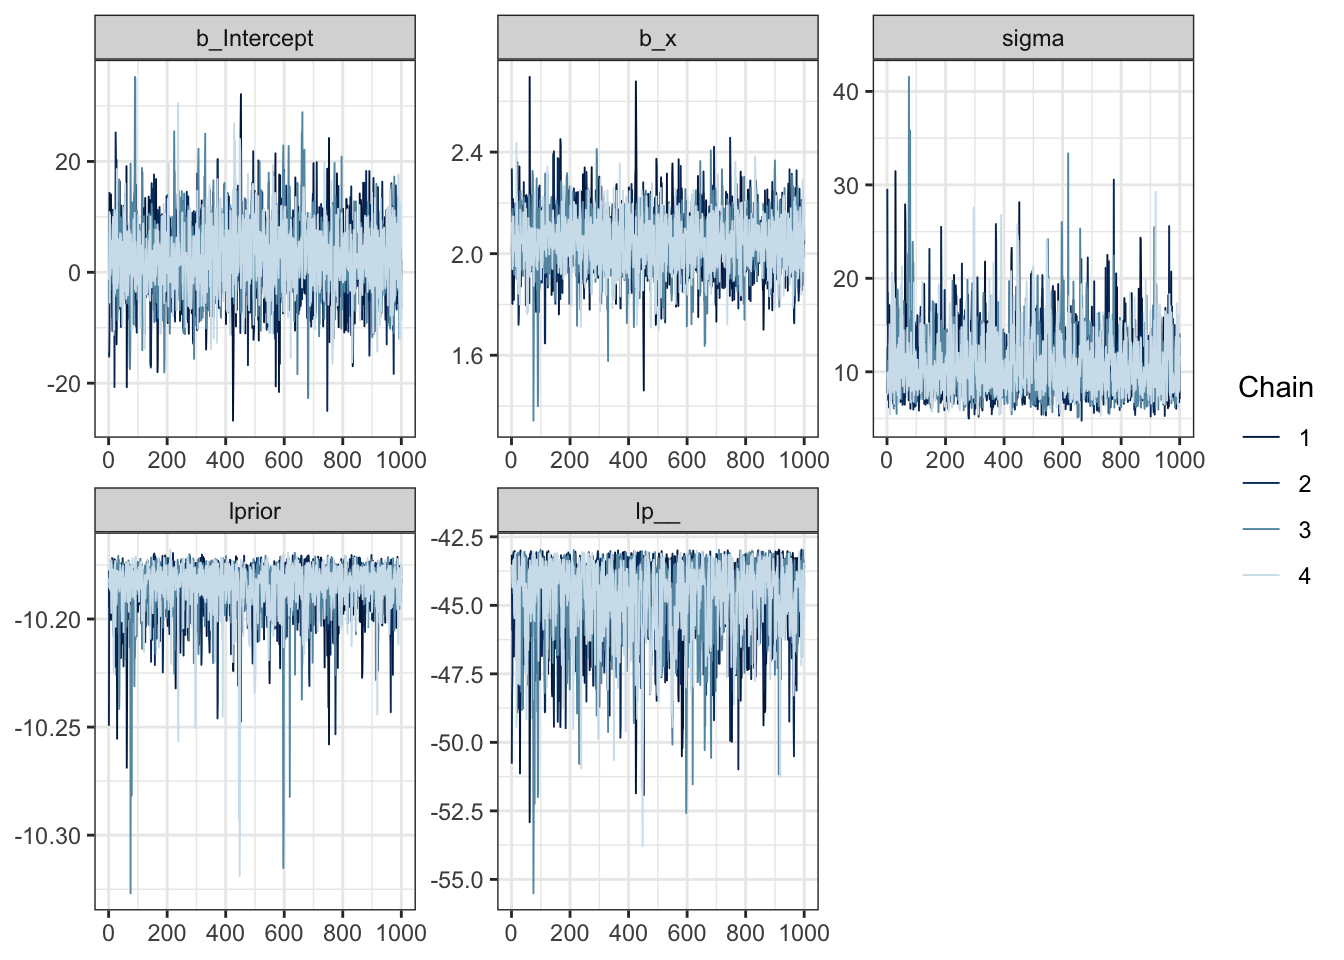
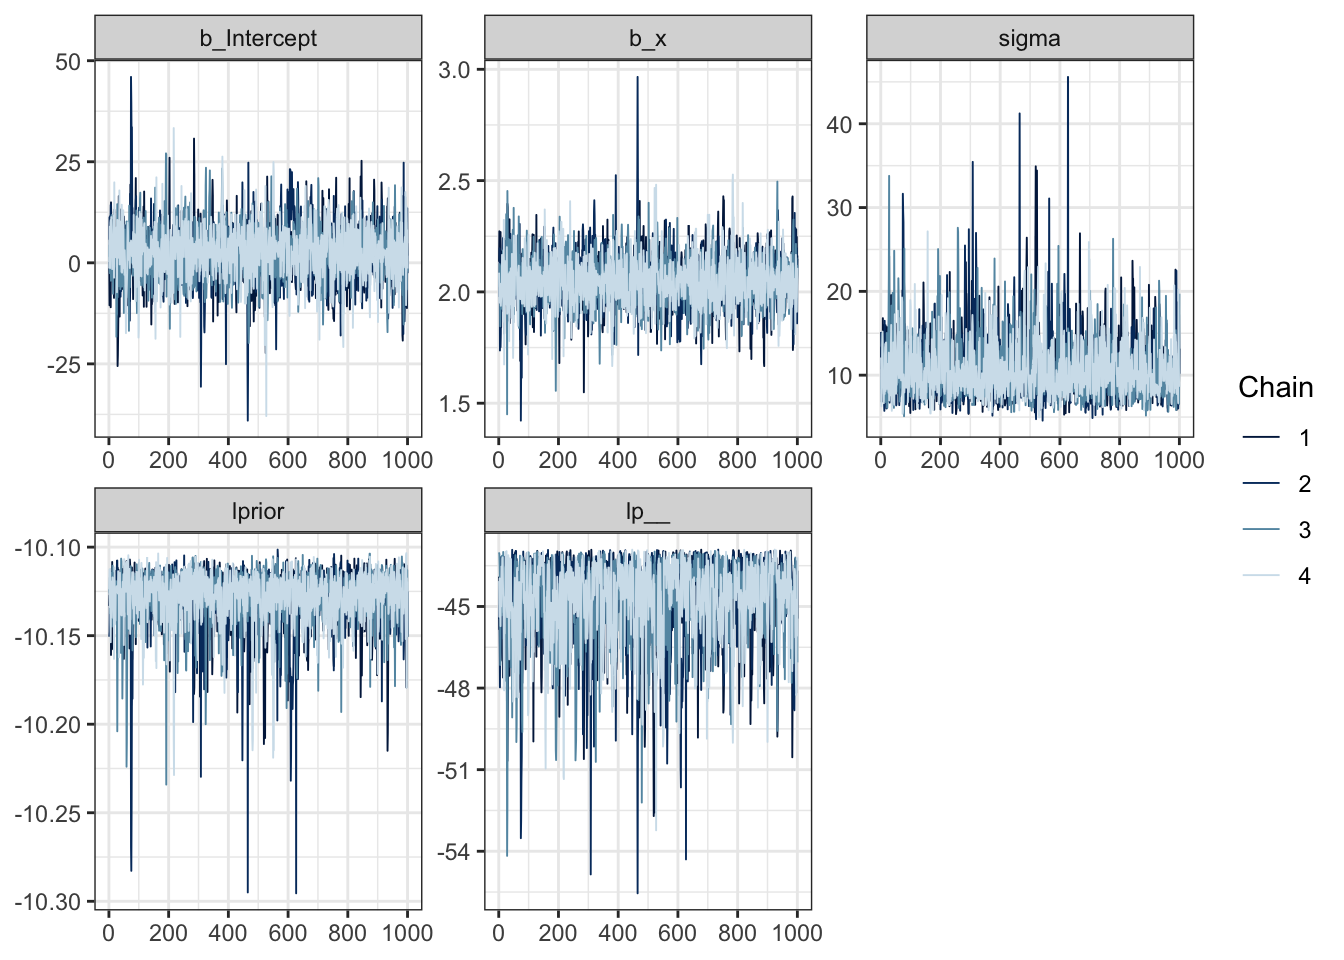
Minor edits

diff --git a/simplesim.html b/simplesim.html
@@ -146,7 +146,7 @@ code span.wa { color: #60a0b0; font-weight: bold; font-style: italic; } /* Warni
 </div>
 <div class="cell">
 <div class="sourceCode cell-code" id="cb2"><pre class="sourceCode r code-with-copy"><code class="sourceCode r"><span id="cb2-1"><a href="#cb2-1" aria-hidden="true" tabindex="-1"></a>n <span class="ot">=</span> <span class="dv">10</span></span>
-<span id="cb2-2"><a href="#cb2-2" aria-hidden="true" tabindex="-1"></a>x <span class="ot">=</span> <span class="fu">runif</span>(n, <span class="at">min =</span> <span class="dv">0</span>, <span class="at">max =</span> <span class="dv">100</span>)</span></code><button title="Copy to Clipboard" class="code-copy-button"><i class="bi"></i></button></pre></div>
+<span id="cb2-2"><a href="#cb2-2" aria-hidden="true" tabindex="-1"></a>x <span class="ot">=</span> <span class="fu">sort</span>(<span class="fu">runif</span>(n, <span class="at">min =</span> <span class="dv">0</span>, <span class="at">max =</span> <span class="dv">100</span>))</span></code><button title="Copy to Clipboard" class="code-copy-button"><i class="bi"></i></button></pre></div>
 </div>
 <div class="cell">
 <div class="sourceCode cell-code" id="cb3"><pre class="sourceCode r code-with-copy"><code class="sourceCode r"><span id="cb3-1"><a href="#cb3-1" aria-hidden="true" tabindex="-1"></a>true_alpha <span class="ot">=</span> <span class="dv">5</span></span>
@@ -160,7 +160,7 @@ code span.wa { color: #60a0b0; font-weight: bold; font-style: italic; } /* Warni
 
 <div data-pagedtable="false">
   <script data-pagedtable-source="" type="application/json">
-{"columns":[{"label":["x"],"name":[1],"type":["dbl"],"align":["right"]},{"label":["y"],"name":[2],"type":["dbl"],"align":["right"]}],"data":[{"1":"83.368","2":"171.86"},{"1":"38.320","2":"81.44"},{"1":"93.304","2":"196.91"},{"1":"39.829","2":"73.38"},{"1":"62.555","2":"118.63"},{"1":"20.151","2":"49.89"},{"1":"92.407","2":"196.81"},{"1":"11.735","2":"16.02"},{"1":"46.700","2":"106.15"},{"1":"5.575","2":"24.80"}],"options":{"columns":{"min":{},"max":[10]},"rows":{"min":[10],"max":[10]},"pages":{}}}
+{"columns":[{"label":["x"],"name":[1],"type":["dbl"],"align":["right"]},{"label":["y"],"name":[2],"type":["dbl"],"align":["right"]}],"data":[{"1":"5.575","2":"16.27"},{"1":"11.735","2":"28.27"},{"1":"20.151","2":"50.60"},{"1":"38.320","2":"70.37"},{"1":"39.829","2":"73.18"},{"1":"46.700","2":"102.99"},{"1":"62.555","2":"137.10"},{"1":"83.368","2":"159.28"},{"1":"92.407","2":"197.57"},{"1":"93.304","2":"200.26"}],"options":{"columns":{"min":{},"max":[10]},"rows":{"min":[10],"max":[10]},"pages":{}}}
   </script>
 </div>
 </div>
@@ -180,7 +180,7 @@ code span.wa { color: #60a0b0; font-weight: bold; font-style: italic; } /* Warni
 
 <div data-pagedtable="false">
   <script data-pagedtable-source="" type="application/json">
-{"columns":[{"label":["term"],"name":[1],"type":["chr"],"align":["left"]},{"label":["estimate"],"name":[2],"type":["dbl"],"align":["right"]},{"label":["std.error"],"name":[3],"type":["dbl"],"align":["right"]},{"label":["statistic"],"name":[4],"type":["dbl"],"align":["right"]},{"label":["p.value"],"name":[5],"type":["dbl"],"align":["right"]},{"label":["conf.low"],"name":[6],"type":["dbl"],"align":["right"]},{"label":["conf.high"],"name":[7],"type":["dbl"],"align":["right"]}],"data":[{"1":"(Intercept)","2":"2.564","3":"5.28473","4":"0.4852","5":"0.64057020801","6":"-9.623","7":"14.751"},{"1":"x","2":"2.045","3":"0.09074","4":"22.5398","5":"0.00000001589","6":"1.836","7":"2.255"}],"options":{"columns":{"min":{},"max":[10]},"rows":{"min":[10],"max":[10]},"pages":{}}}
+{"columns":[{"label":["term"],"name":[1],"type":["chr"],"align":["left"]},{"label":["estimate"],"name":[2],"type":["dbl"],"align":["right"]},{"label":["std.error"],"name":[3],"type":["dbl"],"align":["right"]},{"label":["statistic"],"name":[4],"type":["dbl"],"align":["right"]},{"label":["p.value"],"name":[5],"type":["dbl"],"align":["right"]},{"label":["conf.low"],"name":[6],"type":["dbl"],"align":["right"]},{"label":["conf.high"],"name":[7],"type":["dbl"],"align":["right"]}],"data":[{"1":"(Intercept)","2":"2.456","3":"5.2766","4":"0.4655","5":"0.65395769682","6":"-9.711","7":"14.624"},{"1":"x","2":"2.047","3":"0.0906","4":"22.5984","5":"0.00000001557","6":"1.839","7":"2.256"}],"options":{"columns":{"min":{},"max":[10]},"rows":{"min":[10],"max":[10]},"pages":{}}}
   </script>
 </div>
 </div>
@@ -191,7 +191,7 @@ code span.wa { color: #60a0b0; font-weight: bold; font-style: italic; } /* Warni
 
 <div data-pagedtable="false">
   <script data-pagedtable-source="" type="application/json">
-{"columns":[{"label":["rowid"],"name":[1],"type":["int"],"align":["right"]},{"label":["type"],"name":[2],"type":["chr"],"align":["left"]},{"label":["estimate"],"name":[3],"type":["dbl"],"align":["right"]},{"label":["std.error"],"name":[4],"type":["dbl"],"align":["right"]},{"label":["statistic"],"name":[5],"type":["dbl"],"align":["right"]},{"label":["p.value"],"name":[6],"type":["dbl"],"align":["right"]},{"label":["conf.low"],"name":[7],"type":["dbl"],"align":["right"]},{"label":["conf.high"],"name":[8],"type":["dbl"],"align":["right"]},{"label":["x"],"name":[9],"type":["dbl"],"align":["right"]},{"label":["y"],"name":[10],"type":["dbl"],"align":["right"]}],"data":[{"1":"1","2":"response","3":"173.08","4":"4.165","5":"41.560","6":"0.000000000000000000000000000000000000000000000000000000000000000000000000000000000000000000000000000000000000000000000000000000000000000000000000000000000000000000000000000000000000000000000000000000000000000000000000000000000000000000000000000000000000000000000000000000","7":"164.914","8":"181.24","9":"83.368","10":"171.86"},{"1":"2","2":"response","3":"80.94","4":"2.975","5":"27.209","6":"0.000000000000000000000000000000000000000000000000000000000000000000000000000000000000000000000000000000000000000000000000000000000000000000000000000000000000000000505325747642740027568376639253466487285663691635092461180471610891692727098270332833187939554715011212839612","7":"75.109","8":"86.77","9":"38.320","10":"81.44"},{"1":"3","2":"response","3":"193.40","4":"4.870","5":"39.714","6":"0.000000000000000000000000000000000000000000000000000000000000000000000000000000000000000000000000000000000000000000000000000000000000000000000000000000000000000000000000000000000000000000000000000000000000000000000000000000000000000000000000000000000000000000000000000000","7":"183.852","8":"202.94","9":"93.304","10":"196.91"},{"1":"4","2":"response","3":"84.02","4":"2.931","5":"28.665","6":"0.000000000000000000000000000000000000000000000000000000000000000000000000000000000000000000000000000000000000000000000000000000000000000000000000000000000000000000000000000000000001056891592485266460805338212958973814502802802846665023040461816351250694271784882800892028","7":"78.280","8":"89.77","9":"39.829","10":"73.38"},{"1":"5","2":"response","3":"130.51","4":"3.044","5":"42.875","6":"0.000000000000000000000000000000000000000000000000000000000000000000000000000000000000000000000000000000000000000000000000000000000000000000000000000000000000000000000000000000000000000000000000000000000000000000000000000000000000000000000000000000000000000000000000000000","7":"124.541","8":"136.47","9":"62.555","10":"118.63"},{"1":"6","2":"response","3":"43.78","4":"3.858","5":"11.348","6":"0.000000000000000000000000000007549049031609619336866795405027061754198950152603986157154516931659156283939511242198072693554422585293650627136230468750000000000000000000000000000000000000000000000000000000000000000000000000000000000000000000000000000000000000000000000000","7":"36.217","8":"51.34","9":"20.151","10":"49.89"},{"1":"7","2":"response","3":"191.56","4":"4.803","5":"39.881","6":"0.000000000000000000000000000000000000000000000000000000000000000000000000000000000000000000000000000000000000000000000000000000000000000000000000000000000000000000000000000000000000000000000000000000000000000000000000000000000000000000000000000000000000000000000000000000","7":"182.148","8":"200.98","9":"92.407","10":"196.81"},{"1":"8","2":"response","3":"26.57","4":"4.418","5":"6.013","6":"0.000000001816974681612260777580960289872506058239665094333759043365716934204101562500000000000000000000000000000000000000000000000000000000000000000000000000000000000000000000000000000000000000000000000000000000000000000000000000000000000000000000000000000000000000000000","7":"17.907","8":"35.22","9":"11.735","10":"16.02"},{"1":"9","2":"response","3":"98.08","4":"2.811","5":"34.897","6":"0.000000000000000000000000000000000000000000000000000000000000000000000000000000000000000000000000000000000000000000000000000000000000000000000000000000000000000000000000000000000000000000000000000000000000000000000000000000000000000000000000000000000000000000000000008306","7":"92.569","8":"103.59","9":"46.700","10":"106.15"},{"1":"10","2":"response","3":"13.97","4":"4.863","5":"2.872","6":"0.004082046082120940888593452200439060106873512268066406250000000000000000000000000000000000000000000000000000000000000000000000000000000000000000000000000000000000000000000000000000000000000000000000000000000000000000000000000000000000000000000000000000000000000000000000","7":"4.434","8":"23.50","9":"5.575","10":"24.80"}],"options":{"columns":{"min":{},"max":[10]},"rows":{"min":[10],"max":[10]},"pages":{}}}
+{"columns":[{"label":["rowid"],"name":[1],"type":["int"],"align":["right"]},{"label":["type"],"name":[2],"type":["chr"],"align":["left"]},{"label":["estimate"],"name":[3],"type":["dbl"],"align":["right"]},{"label":["std.error"],"name":[4],"type":["dbl"],"align":["right"]},{"label":["statistic"],"name":[5],"type":["dbl"],"align":["right"]},{"label":["p.value"],"name":[6],"type":["dbl"],"align":["right"]},{"label":["conf.low"],"name":[7],"type":["dbl"],"align":["right"]},{"label":["conf.high"],"name":[8],"type":["dbl"],"align":["right"]},{"label":["x"],"name":[9],"type":["dbl"],"align":["right"]},{"label":["y"],"name":[10],"type":["dbl"],"align":["right"]}],"data":[{"1":"1","2":"response","3":"13.87","4":"4.856","5":"2.857","6":"0.004283058880382936868536081220781852607615292072296142578125000000000000000000000000000000000000000000000000000000000000000000000000000000000000000000000000000000000000000000000000000000000000000000000000000000000000000000000000000000000000000000000000000000000000000000","7":"4.353","8":"23.39","9":"5.575","10":"16.27"},{"1":"2","2":"response","3":"26.48","4":"4.411","5":"6.004","6":"0.000000001924741358821671677031650996643648288131345225338009186089038848876953125000000000000000000000000000000000000000000000000000000000000000000000000000000000000000000000000000000000000000000000000000000000000000000000000000000000000000000000000000000000000000000000","7":"17.838","8":"35.13","9":"11.735","10":"28.27"},{"1":"3","2":"response","3":"43.71","4":"3.852","5":"11.349","6":"0.000000000000000000000000000007471449165740679744340185482681218481717841962517719411973056526086421133542444725228470758793264394626021385192871093750000000000000000000000000000000000000000000000000000000000000000000000000000000000000000000000000000000000000000000000000","7":"36.165","8":"51.26","9":"20.151","10":"50.60"},{"1":"4","2":"response","3":"80.92","4":"2.970","5":"27.243","6":"0.000000000000000000000000000000000000000000000000000000000000000000000000000000000000000000000000000000000000000000000000000000000000000000000000000000000000000000201851061220763596469112058302809903958644521484170661368615918545565970758142535243769786694691043074178226","7":"75.094","8":"86.74","9":"38.320","10":"70.37"},{"1":"5","2":"response","3":"84.00","4":"2.927","5":"28.701","6":"0.000000000000000000000000000000000000000000000000000000000000000000000000000000000000000000000000000000000000000000000000000000000000000000000000000000000000000000000000000000000000366326022847544548116207557171403948494404757455290285082704109645925691316451346369666651","7":"78.268","8":"89.74","9":"39.829","10":"73.18"},{"1":"6","2":"response","3":"98.07","4":"2.806","5":"34.948","6":"0.000000000000000000000000000000000000000000000000000000000000000000000000000000000000000000000000000000000000000000000000000000000000000000000000000000000000000000000000000000000000000000000000000000000000000000000000000000000000000000000000000000000000000000000000001374","7":"92.572","8":"103.57","9":"46.700","10":"102.99"},{"1":"7","2":"response","3":"130.54","4":"3.039","5":"42.950","6":"0.000000000000000000000000000000000000000000000000000000000000000000000000000000000000000000000000000000000000000000000000000000000000000000000000000000000000000000000000000000000000000000000000000000000000000000000000000000000000000000000000000000000000000000000000000000","7":"124.579","8":"136.49","9":"62.555","10":"137.10"},{"1":"8","2":"response","3":"173.15","4":"4.158","5":"41.641","6":"0.000000000000000000000000000000000000000000000000000000000000000000000000000000000000000000000000000000000000000000000000000000000000000000000000000000000000000000000000000000000000000000000000000000000000000000000000000000000000000000000000000000000000000000000000000000","7":"165.000","8":"181.30","9":"83.368","10":"159.28"},{"1":"9","2":"response","3":"191.66","4":"4.796","5":"39.961","6":"0.000000000000000000000000000000000000000000000000000000000000000000000000000000000000000000000000000000000000000000000000000000000000000000000000000000000000000000000000000000000000000000000000000000000000000000000000000000000000000000000000000000000000000000000000000000","7":"182.256","8":"201.06","9":"92.407","10":"197.57"},{"1":"10","2":"response","3":"193.49","4":"4.862","5":"39.794","6":"0.000000000000000000000000000000000000000000000000000000000000000000000000000000000000000000000000000000000000000000000000000000000000000000000000000000000000000000000000000000000000000000000000000000000000000000000000000000000000000000000000000000000000000000000000000000","7":"183.963","8":"203.02","9":"93.304","10":"200.26"}],"options":{"columns":{"min":{},"max":[10]},"rows":{"min":[10],"max":[10]},"pages":{}}}
   </script>
 </div>
 </div>
@@ -211,7 +211,7 @@ code span.wa { color: #60a0b0; font-weight: bold; font-style: italic; } /* Warni
 
 <div data-pagedtable="false">
   <script data-pagedtable-source="" type="application/json">
-{"columns":[{"label":["effect"],"name":[1],"type":["chr"],"align":["left"]},{"label":["component"],"name":[2],"type":["chr"],"align":["left"]},{"label":["group"],"name":[3],"type":["chr"],"align":["left"]},{"label":["term"],"name":[4],"type":["chr"],"align":["left"]},{"label":["estimate"],"name":[5],"type":["dbl"],"align":["right"]},{"label":["std.error"],"name":[6],"type":["dbl"],"align":["right"]},{"label":["conf.low"],"name":[7],"type":["dbl"],"align":["right"]},{"label":["conf.high"],"name":[8],"type":["dbl"],"align":["right"]}],"data":[{"1":"fixed","2":"cond","3":"NA","4":"(Intercept)","5":"2.521","6":"6.525","7":"-10.506","8":"15.702"},{"1":"fixed","2":"cond","3":"NA","4":"x","5":"2.047","6":"0.113","7":"1.814","8":"2.261"},{"1":"ran_pars","2":"cond","3":"Residual","4":"sd__Observation","5":"10.609","6":"3.406","7":"6.240","8":"19.242"}],"options":{"columns":{"min":{},"max":[10]},"rows":{"min":[10],"max":[10]},"pages":{}}}
+{"columns":[{"label":["effect"],"name":[1],"type":["chr"],"align":["left"]},{"label":["component"],"name":[2],"type":["chr"],"align":["left"]},{"label":["group"],"name":[3],"type":["chr"],"align":["left"]},{"label":["term"],"name":[4],"type":["chr"],"align":["left"]},{"label":["estimate"],"name":[5],"type":["dbl"],"align":["right"]},{"label":["std.error"],"name":[6],"type":["dbl"],"align":["right"]},{"label":["conf.low"],"name":[7],"type":["dbl"],"align":["right"]},{"label":["conf.high"],"name":[8],"type":["dbl"],"align":["right"]}],"data":[{"1":"fixed","2":"cond","3":"NA","4":"(Intercept)","5":"2.331","6":"6.7479","7":"-10.803","8":"15.831"},{"1":"fixed","2":"cond","3":"NA","4":"x","5":"2.050","6":"0.1132","7":"1.820","8":"2.276"},{"1":"ran_pars","2":"cond","3":"Residual","4":"sd__Observation","5":"10.692","6":"3.5391","7":"6.249","8":"19.646"}],"options":{"columns":{"min":{},"max":[10]},"rows":{"min":[10],"max":[10]},"pages":{}}}
   </script>
 </div>
 </div>
@@ -228,8 +228,7 @@ code span.wa { color: #60a0b0; font-weight: bold; font-style: italic; } /* Warni
 <span id="cb12-3"><a href="#cb12-3" aria-hidden="true" tabindex="-1"></a>  mu <span class="ot">&lt;-</span> alpha <span class="sc">+</span> beta <span class="sc">*</span> x,</span>
 <span id="cb12-4"><a href="#cb12-4" aria-hidden="true" tabindex="-1"></a>  alpha <span class="sc">~</span> <span class="fu">dnorm</span>(<span class="dv">0</span>, <span class="dv">100</span>),</span>
 <span id="cb12-5"><a href="#cb12-5" aria-hidden="true" tabindex="-1"></a>  beta <span class="sc">~</span> <span class="fu">dnorm</span>(<span class="dv">0</span>, <span class="dv">100</span>),</span>
-<span id="cb12-6"><a href="#cb12-6" aria-hidden="true" tabindex="-1"></a>  sigma <span class="sc">~</span> <span class="fu">dhalfnorm</span>(<span class="dv">0</span>, <span class="dv">10</span>)</span>
-<span id="cb12-7"><a href="#cb12-7" aria-hidden="true" tabindex="-1"></a>  ), <span class="at">data =</span> dat, <span class="at">chains=</span><span class="dv">4</span>, <span class="at">cores=</span><span class="dv">4</span>)</span></code><button title="Copy to Clipboard" class="code-copy-button"><i class="bi"></i></button></pre></div>
+<span id="cb12-6"><a href="#cb12-6" aria-hidden="true" tabindex="-1"></a>  sigma <span class="sc">~</span> <span class="fu">dhalfnorm</span>(<span class="dv">0</span>, <span class="dv">10</span>)), <span class="at">data =</span> dat, <span class="at">chains =</span> <span class="dv">4</span>, <span class="at">cores =</span> <span class="dv">4</span>)</span></code><button title="Copy to Clipboard" class="code-copy-button"><i class="bi"></i></button></pre></div>
 </div>
 <div class="cell">
 <div class="sourceCode cell-code" id="cb13"><pre class="sourceCode r code-with-copy"><code class="sourceCode r"><span id="cb13-1"><a href="#cb13-1" aria-hidden="true" tabindex="-1"></a><span class="fu">trankplot</span>(rt)</span></code><button title="Copy to Clipboard" class="code-copy-button"><i class="bi"></i></button></pre></div>
@@ -243,7 +242,7 @@ code span.wa { color: #60a0b0; font-weight: bold; font-style: italic; } /* Warni
 
 <div data-pagedtable="false">
   <script data-pagedtable-source="" type="application/json">
-{"columns":[{"label":[""],"name":["_rn_"],"type":[""],"align":["left"]},{"label":["mean"],"name":[1],"type":["dbl"],"align":["right"]},{"label":["sd"],"name":[2],"type":["dbl"],"align":["right"]},{"label":["5.5%"],"name":[3],"type":["dbl"],"align":["right"]},{"label":["94.5%"],"name":[4],"type":["dbl"],"align":["right"]},{"label":["n_eff"],"name":[5],"type":["dbl"],"align":["right"]},{"label":["Rhat4"],"name":[6],"type":["dbl"],"align":["right"]}],"data":[{"1":"2.680","2":"6.4245","3":"-7.204","4":"13.22","5":"461.4","6":"1.010","_rn_":"alpha"},{"1":"2.042","2":"0.1109","3":"1.876","4":"2.21","5":"405.2","6":"1.011","_rn_":"beta"},{"1":"9.698","2":"2.4675","3":"6.455","4":"13.90","5":"740.5","6":"1.006","_rn_":"sigma"}],"options":{"columns":{"min":{},"max":[10]},"rows":{"min":[10],"max":[10]},"pages":{}}}
+{"columns":[{"label":[""],"name":["_rn_"],"type":[""],"align":["left"]},{"label":["mean"],"name":[1],"type":["dbl"],"align":["right"]},{"label":["sd"],"name":[2],"type":["dbl"],"align":["right"]},{"label":["5.5%"],"name":[3],"type":["dbl"],"align":["right"]},{"label":["94.5%"],"name":[4],"type":["dbl"],"align":["right"]},{"label":["n_eff"],"name":[5],"type":["dbl"],"align":["right"]},{"label":["Rhat4"],"name":[6],"type":["dbl"],"align":["right"]}],"data":[{"1":"2.276","2":"5.9182","3":"-7.258","4":"11.488","5":"616.7","6":"1.005","_rn_":"alpha"},{"1":"2.049","2":"0.1005","3":"1.885","4":"2.206","5":"597.6","6":"1.004","_rn_":"beta"},{"1":"9.692","2":"2.4205","3":"6.519","4":"13.847","5":"763.7","6":"1.006","_rn_":"sigma"}],"options":{"columns":{"min":{},"max":[10]},"rows":{"min":[10],"max":[10]},"pages":{}}}
   </script>
 </div>
 </div>
